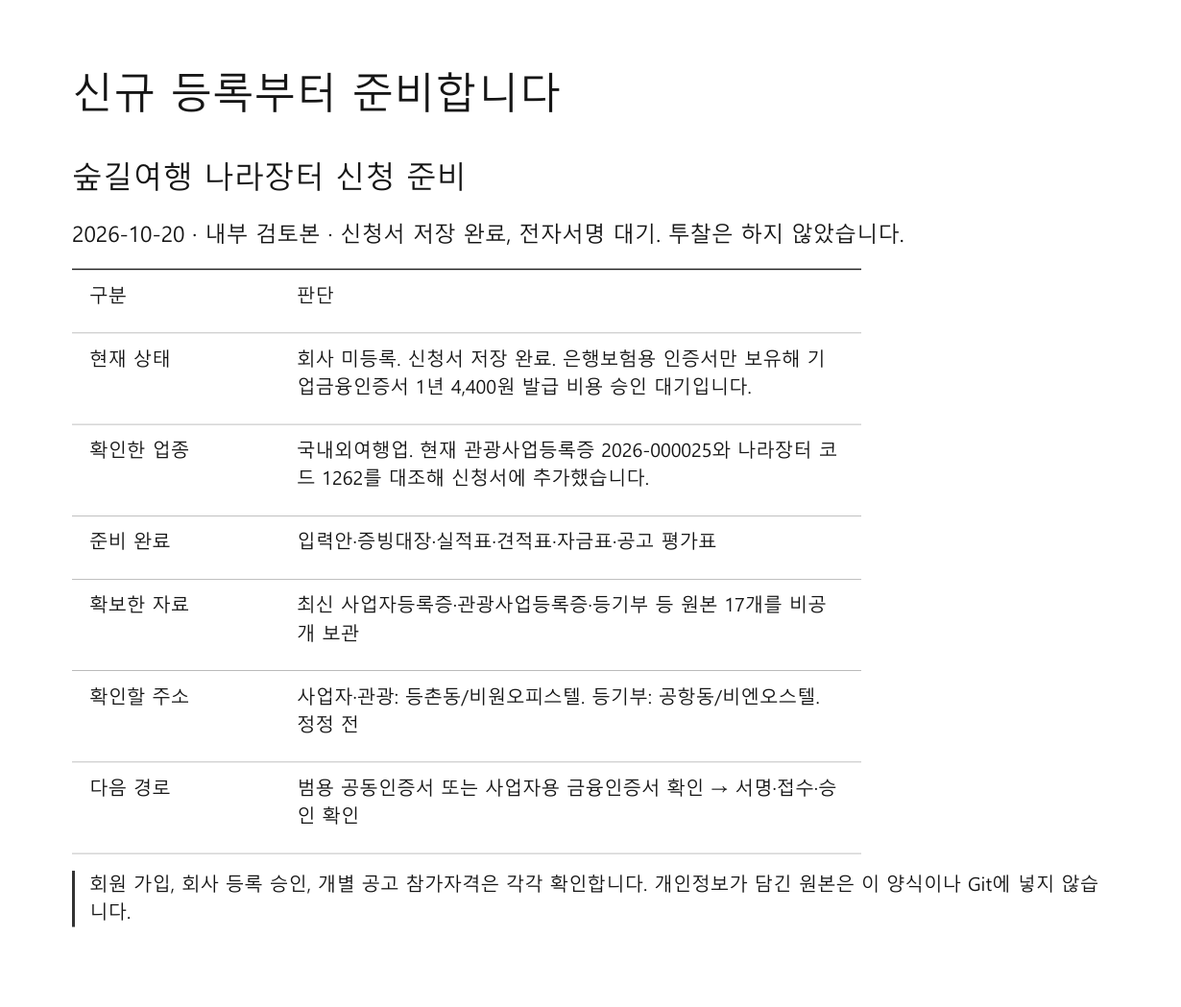
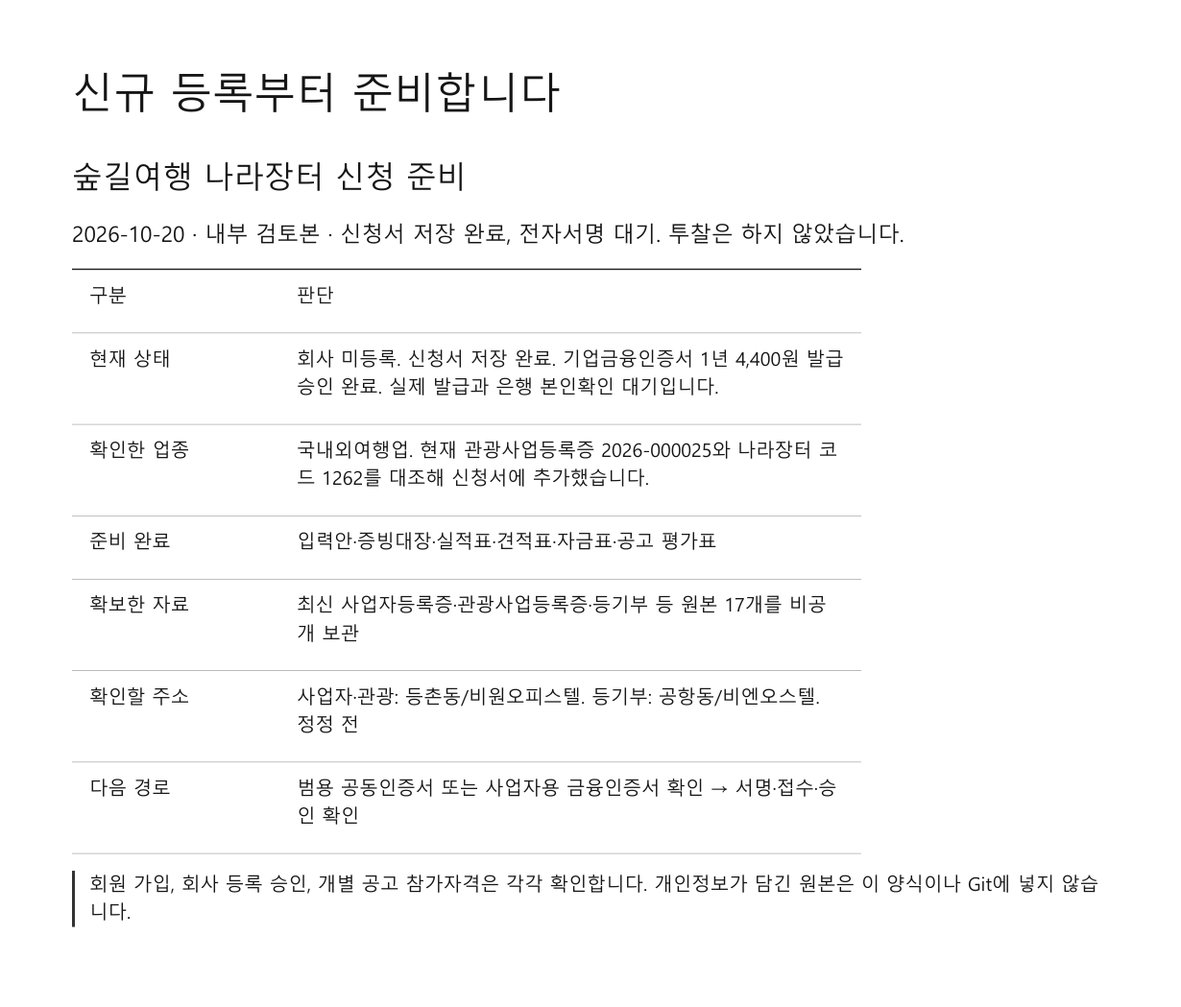
docs: record approved certificate fee and bank interaction checkpoint

Changed region(s): [[0.2472, 0.3356, 0.7106, 0.3966]]

diff --git a/procurement/output/나라장터-신청준비.html b/procurement/output/나라장터-신청준비.html
@@ -1,1 +1,1 @@
-<!doctype html><html lang="ko"><meta charset="utf-8"><title>나라장터 신청 준비</title><style>@page{size:A4;margin:15mm}*{box-sizing:border-box}body{font-family:"Malgun Gothic",sans-serif;color:#151515;margin:0;font-size:11pt;line-height:1.6}.page{break-after:page;min-height:255mm;position:relative;padding-bottom:12mm}.page:last-child{break-after:auto}h1{font-size:25pt;letter-spacing:-1px;margin:10mm 0 8mm}h2{font-size:17pt}p{margin:5mm 0}.eyebrow{font-size:9pt;letter-spacing:1px;border-top:3px solid #222;padding-top:4mm}.lead{font-size:17pt;font-weight:bold}table{border-collapse:collapse;width:100%;font-size:9.5pt}th,td{border-bottom:1px solid #bbb;padding:3mm 2.5mm;text-align:left;vertical-align:top}th{border-top:1.5px solid #222;font-weight:bold}td:first-child{width:25%;font-weight:bold}.note{border-left:3px solid #333;padding-left:4mm;font-size:10pt}footer{position:absolute;bottom:0;font-size:8pt;color:#555;width:100%;border-top:1px solid #bbb;padding-top:3mm}.summary{width:820px;min-height:0;padding:40px;background:white}.summary h1{margin:12px 0 24px}.summary footer{position:static;margin-top:30px}@media screen{body{background:#e9ede9}.page{background:white;max-width:210mm;margin:20px auto;padding:15mm;min-height:297mm}.summary{margin:0}}</style><body><section class="page"><div class="eyebrow">FOREST TOUR · 신청 준비 · 2026-10-20</div><h1>신규 등록부터 준비합니다</h1><p class="lead">숲길여행 나라장터 신청 준비</p><p>2026-10-20 · 내부 검토본 · 신청서 저장 완료, 전자서명 대기. 투찰은 하지 않았습니다.</p><table style="width:500pt"><thead><tr><th style="width:120pt">구분</th><th style="width:380.0pt">판단</th></tr></thead><tbody><tr><td style="width:120pt">현재 상태</td><td style="width:380.0pt">회사 미등록. 신청서 저장 완료. 은행보험용 인증서만 보유해 기업금융인증서 1년 4,400원 발급 비용 승인 대기입니다.</td></tr><tr><td style="width:120pt">확인한 업종</td><td style="width:380.0pt">국내외여행업. 현재 관광사업등록증 2026-000025와 나라장터 코드 1262를 대조해 신청서에 추가했습니다.</td></tr><tr><td style="width:120pt">준비 완료</td><td style="width:380.0pt">입력안·증빙대장·실적표·견적표·자금표·공고 평가표</td></tr><tr><td style="width:120pt">확보한 자료</td><td style="width:380.0pt">최신 사업자등록증·관광사업등록증·등기부 등 원본 17개를 비공개 보관</td></tr><tr><td style="width:120pt">확인할 주소</td><td style="width:380.0pt">사업자·관광: 등촌동/비원오피스텔. 등기부: 공항동/비엔오스텔. 정정 전</td></tr><tr><td style="width:120pt">다음 경로</td><td style="width:380.0pt">범용 공동인증서 또는 사업자용 금융인증서 확인 → 서명·접수·승인 확인</td></tr></tbody></table><p class="note">회원 가입, 회사 등록 승인, 개별 공고 참가자격은 각각 확인합니다. 개인정보가 담긴 원본은 이 양식이나 Git에 넣지 않습니다.</p><footer>내부 검토본 · 신청서 저장 완료·전자서명 대기 · 1/6</footer></section><section class="page"><div class="eyebrow">FOREST TOUR · 신청 준비 · 2026-10-20</div><h1>회사 정보 입력안</h1><table style="width:500pt"><thead><tr><th style="width:120pt">항목</th><th style="width:380.0pt">준비값</th></tr></thead><tbody><tr><td style="width:120pt">법인명</td><td style="width:380.0pt">주식회사 숲길여행</td></tr><tr><td style="width:120pt">사업자등록번호</td><td style="width:380.0pt">584-81-01471</td></tr><tr><td style="width:120pt">법인등록번호</td><td style="width:380.0pt">110111-7220611</td></tr><tr><td style="width:120pt">개업일</td><td style="width:380.0pt">2020-01-01</td></tr><tr><td style="width:120pt">본점 주소</td><td style="width:380.0pt">서울특별시 강서구 공항대로 525, 1501 나-318호(등촌동, 비원오피스텔)</td></tr><tr><td style="width:120pt">우편번호</td><td style="width:380.0pt">미확인</td></tr><tr><td style="width:120pt">대표자</td><td style="width:380.0pt">미확인</td></tr><tr><td style="width:120pt">등록 구분</td><td style="width:380.0pt">본사 신규 / 국내소재 법인 / 용역</td></tr><tr><td style="width:120pt">업종</td><td style="width:380.0pt">국내외여행업 1262</td></tr><tr><td style="width:120pt">관광사업 등록번호</td><td style="width:380.0pt">2026-000025</td></tr></tbody></table><p>모든 값은 최신 원본과 대조합니다. 대표자·사업 연락처·인증서·대리인은 원본과 실제 권한으로 입력합니다. 우편번호는 현재 주소검색으로 확정합니다. 전체 항목은 Excel 등록입력 시트를 사용합니다.</p><footer>내부 검토본 · 신청서 저장 완료·전자서명 대기 · 2/6</footer></section><section class="page"><div class="eyebrow">FOREST TOUR · 신청 준비 · 2026-10-20</div><h1>등록과 증빙을 연결합니다</h1><p>개인회원과 업체의 인증은 구분합니다. 사내이사 기록만으로 대표자 권한을 대신하지 않습니다.</p><table style="width:500pt"><thead><tr><th style="width:120pt">서류</th><th style="width:190.0pt">현재</th><th style="width:190.0pt">용도</th></tr></thead><tbody><tr><td style="width:120pt">사업자등록증</td><td style="width:190.0pt">사본 있음</td><td style="width:190.0pt">기본 등록</td></tr><tr><td style="width:120pt">최신 법인등기</td><td style="width:190.0pt">사본 있음</td><td style="width:190.0pt">기본·대표자·지역</td></tr><tr><td style="width:120pt">관광사업등록증</td><td style="width:190.0pt">사본 있음</td><td style="width:190.0pt">업종 1262</td></tr><tr><td style="width:120pt">인감·사용인감</td><td style="width:190.0pt">미확인</td><td style="width:190.0pt">신청별 요구</td></tr><tr><td style="width:120pt">대리인 인정 자료</td><td style="width:190.0pt">요구 확인 중</td><td style="width:190.0pt">신청 역할별 요구</td></tr><tr><td style="width:120pt">소기업·소상공인확인</td><td style="width:190.0pt">미확인</td><td style="width:190.0pt">해당 공고</td></tr><tr><td style="width:120pt">공공입찰용 신용평가</td><td style="width:190.0pt">미확인</td><td style="width:190.0pt">해당 공고</td></tr><tr><td style="width:120pt">발주처 실적증명</td><td style="width:190.0pt">미확인</td><td style="width:190.0pt">해당 공고</td></tr><tr><td style="width:120pt">여행업 보험·공제</td><td style="width:190.0pt">미확인</td><td style="width:190.0pt">해당 공고·업종</td></tr><tr><td style="width:120pt">입찰·계약 보증</td><td style="width:190.0pt">미확인</td><td style="width:190.0pt">해당 공고</td></tr></tbody></table><p class="note">사업자용 금융인증서도 법인 후보입니다. 기존 인증서 사용 가능 여부를 먼저 확인합니다. 새 인증서·보증 발급·과금은 이번에 실행하지 않았습니다.</p><footer>내부 검토본 · 신청서 저장 완료·전자서명 대기 · 3/6</footer></section><section class="page"><div class="eyebrow">FOREST TOUR · 신청 준비 · 2026-10-20</div><h1>서울고 공고 검토</h1><table style="width:500pt"><thead><tr><th style="width:120pt">항목</th><th style="width:380.0pt">확인 내용</th></tr></thead><tbody><tr><td style="width:120pt">공고</td><td style="width:380.0pt">R26BK01770779-000 / 일본 방문 체험학습</td></tr><tr><td style="width:120pt">금액·인원</td><td style="width:380.0pt">공고 기초금액 46,860,650원 / 학생 26명·교직원 2명</td></tr><tr><td style="width:120pt">마감</td><td style="width:380.0pt">등록 10-27 18:00 / 입찰·방문 제안서 10-28 16:00</td></tr><tr><td style="width:120pt">제안</td><td style="width:380.0pt">A4 세로·상철 10부 / 11-05 15:10 설명회 예정</td></tr><tr><td style="width:120pt">기본 조건</td><td style="width:380.0pt">서울 본점·국내외여행업 또는 종합여행업·소기업 또는 소상공인</td></tr><tr><td style="width:120pt">점수 제약</td><td style="width:380.0pt">정량 최저 구간 예시 6 + 정성 최고 70 = 76. 기준 80에 미달</td></tr><tr><td style="width:120pt">주의</td><td style="width:380.0pt">위 점수는 조건부 시나리오이며 회사 실제 점수 확정 아님</td></tr><tr><td style="width:120pt">기준일</td><td style="width:380.0pt">신용평가는 공고일 전 유효 평가 요구. 지금 발급으로 점수 회복 단정 금지</td></tr></tbody></table><p>학교 실적과 보험·등기 등 인정 인력 증빙, 항공 28석 승계·발권, 현지 수배가 필요합니다. 성인 카페 여행 실적을 학교 실적으로 바꾸지 않습니다.</p><footer>내부 검토본 · 신청서 저장 완료·전자서명 대기 · 4/6</footer></section><section class="page"><div class="eyebrow">FOREST TOUR · 신청 준비 · 2026-10-20</div><h1>원문 충돌과 돈의 흐름</h1><table style="width:500pt"><thead><tr><th style="width:120pt">항목</th><th style="width:380.0pt">확인 내용</th></tr></thead><tbody><tr><td style="width:120pt">개찰 시각</td><td style="width:380.0pt">공식 상세 11-06 17:00 / 공고 PDF 11-06 10:00</td></tr><tr><td style="width:120pt">실적 기간</td><td style="width:380.0pt">공고 최근 5년 / 과업 평가표 2020~2024년</td></tr><tr><td style="width:120pt">입찰 보증</td><td style="width:380.0pt">본문 5% 보증서 / 서식에 한시 2.5%·각서 문구 병존</td></tr><tr><td style="width:120pt">대금</td><td style="width:380.0pt">과업은 종료 후 청구. 선금과 지급기한 별도 확인 필요</td></tr><tr><td style="width:120pt">계약 보증</td><td style="width:380.0pt">10% 이상. 실제 보험료·담보금과 보증금액 구분</td></tr><tr><td style="width:120pt">원가 위험</td><td style="width:380.0pt">환율·유류 인상 변경 불가, 인원·할인 정산, 취소·해지 조건</td></tr></tbody></table><p>엑셀의 견적·자금 시트에 공급사 견적과 결제일을 넣습니다. 미입력은 0원이 아닙니다. 전체 차액과 회사 귀속 이익을 구분합니다.</p><p class="note">위 충돌은 발주기관 답변 전 임의로 유리하게 해석하지 않습니다. 문의 초안은 작성했으나 발송하지 않았습니다.</p><footer>내부 검토본 · 신청서 저장 완료·전자서명 대기 · 5/6</footer></section><section class="page"><div class="eyebrow">FOREST TOUR · 신청 준비 · 2026-10-20</div><h1>작성안을 제출본으로 바꾸는 기준</h1><p>회사 소개와 과업 대응표는 준비됐습니다. 미확정 인력·숙소·차량·가격을 확정 사실로 채우지 않습니다.</p><table style="width:500pt"><thead><tr><th style="width:120pt">자료</th><th style="width:380.0pt">위치</th></tr></thead><tbody><tr><td style="width:120pt">작업 인덱스</td><td style="width:380.0pt">procurement/README.md</td></tr><tr><td style="width:120pt">등록 입력·인증</td><td style="width:380.0pt">01-registration-draft.md</td></tr><tr><td style="width:120pt">공고와 점수·계약</td><td style="width:380.0pt">02-bid-review.md</td></tr><tr><td style="width:120pt">소개·제안·문의 초안</td><td style="width:380.0pt">03-proposal-draft.md</td></tr><tr><td style="width:120pt">사람의 실행 원장</td><td style="width:380.0pt">foresttour/docs/사장님-가이드.md 나라장터 절</td></tr><tr><td style="width:120pt">공식 절차</td><td style="width:380.0pt">pps.go.kr/kor/content.do?key=00170</td></tr><tr><td style="width:120pt">확인서 발급</td><td style="width:380.0pt">sminfo.mss.go.kr</td></tr><tr><td style="width:120pt">나라장터</td><td style="width:380.0pt">g2b.go.kr</td></tr></tbody></table><p>신청서 저장과 재조회 검증을 마쳤으며 회사 공동인증서 전자서명을 기다립니다. 실제 송신 완료·접수·승인·입찰 완료 증거는 없습니다.</p><footer>내부 검토본 · 신청서 저장 완료·전자서명 대기 · 6/6</footer></section></body></html>
+<!doctype html><html lang="ko"><meta charset="utf-8"><title>나라장터 신청 준비</title><style>@page{size:A4;margin:15mm}*{box-sizing:border-box}body{font-family:"Malgun Gothic",sans-serif;color:#151515;margin:0;font-size:11pt;line-height:1.6}.page{break-after:page;min-height:255mm;position:relative;padding-bottom:12mm}.page:last-child{break-after:auto}h1{font-size:25pt;letter-spacing:-1px;margin:10mm 0 8mm}h2{font-size:17pt}p{margin:5mm 0}.eyebrow{font-size:9pt;letter-spacing:1px;border-top:3px solid #222;padding-top:4mm}.lead{font-size:17pt;font-weight:bold}table{border-collapse:collapse;width:100%;font-size:9.5pt}th,td{border-bottom:1px solid #bbb;padding:3mm 2.5mm;text-align:left;vertical-align:top}th{border-top:1.5px solid #222;font-weight:bold}td:first-child{width:25%;font-weight:bold}.note{border-left:3px solid #333;padding-left:4mm;font-size:10pt}footer{position:absolute;bottom:0;font-size:8pt;color:#555;width:100%;border-top:1px solid #bbb;padding-top:3mm}.summary{width:820px;min-height:0;padding:40px;background:white}.summary h1{margin:12px 0 24px}.summary footer{position:static;margin-top:30px}@media screen{body{background:#e9ede9}.page{background:white;max-width:210mm;margin:20px auto;padding:15mm;min-height:297mm}.summary{margin:0}}</style><body><section class="page"><div class="eyebrow">FOREST TOUR · 신청 준비 · 2026-10-20</div><h1>신규 등록부터 준비합니다</h1><p class="lead">숲길여행 나라장터 신청 준비</p><p>2026-10-20 · 내부 검토본 · 신청서 저장 완료, 전자서명 대기. 투찰은 하지 않았습니다.</p><table style="width:500pt"><thead><tr><th style="width:120pt">구분</th><th style="width:380.0pt">판단</th></tr></thead><tbody><tr><td style="width:120pt">현재 상태</td><td style="width:380.0pt">회사 미등록. 신청서 저장 완료. 기업금융인증서 1년 4,400원 발급 승인 완료. 실제 발급과 은행 본인확인 대기입니다.</td></tr><tr><td style="width:120pt">확인한 업종</td><td style="width:380.0pt">국내외여행업. 현재 관광사업등록증 2026-000025와 나라장터 코드 1262를 대조해 신청서에 추가했습니다.</td></tr><tr><td style="width:120pt">준비 완료</td><td style="width:380.0pt">입력안·증빙대장·실적표·견적표·자금표·공고 평가표</td></tr><tr><td style="width:120pt">확보한 자료</td><td style="width:380.0pt">최신 사업자등록증·관광사업등록증·등기부 등 원본 17개를 비공개 보관</td></tr><tr><td style="width:120pt">확인할 주소</td><td style="width:380.0pt">사업자·관광: 등촌동/비원오피스텔. 등기부: 공항동/비엔오스텔. 정정 전</td></tr><tr><td style="width:120pt">다음 경로</td><td style="width:380.0pt">범용 공동인증서 또는 사업자용 금융인증서 확인 → 서명·접수·승인 확인</td></tr></tbody></table><p class="note">회원 가입, 회사 등록 승인, 개별 공고 참가자격은 각각 확인합니다. 개인정보가 담긴 원본은 이 양식이나 Git에 넣지 않습니다.</p><footer>내부 검토본 · 신청서 저장 완료·전자서명 대기 · 1/6</footer></section><section class="page"><div class="eyebrow">FOREST TOUR · 신청 준비 · 2026-10-20</div><h1>회사 정보 입력안</h1><table style="width:500pt"><thead><tr><th style="width:120pt">항목</th><th style="width:380.0pt">준비값</th></tr></thead><tbody><tr><td style="width:120pt">법인명</td><td style="width:380.0pt">주식회사 숲길여행</td></tr><tr><td style="width:120pt">사업자등록번호</td><td style="width:380.0pt">584-81-01471</td></tr><tr><td style="width:120pt">법인등록번호</td><td style="width:380.0pt">110111-7220611</td></tr><tr><td style="width:120pt">개업일</td><td style="width:380.0pt">2020-01-01</td></tr><tr><td style="width:120pt">본점 주소</td><td style="width:380.0pt">서울특별시 강서구 공항대로 525, 1501 나-318호(등촌동, 비원오피스텔)</td></tr><tr><td style="width:120pt">우편번호</td><td style="width:380.0pt">미확인</td></tr><tr><td style="width:120pt">대표자</td><td style="width:380.0pt">미확인</td></tr><tr><td style="width:120pt">등록 구분</td><td style="width:380.0pt">본사 신규 / 국내소재 법인 / 용역</td></tr><tr><td style="width:120pt">업종</td><td style="width:380.0pt">국내외여행업 1262</td></tr><tr><td style="width:120pt">관광사업 등록번호</td><td style="width:380.0pt">2026-000025</td></tr></tbody></table><p>모든 값은 최신 원본과 대조합니다. 대표자·사업 연락처·인증서·대리인은 원본과 실제 권한으로 입력합니다. 우편번호는 현재 주소검색으로 확정합니다. 전체 항목은 Excel 등록입력 시트를 사용합니다.</p><footer>내부 검토본 · 신청서 저장 완료·전자서명 대기 · 2/6</footer></section><section class="page"><div class="eyebrow">FOREST TOUR · 신청 준비 · 2026-10-20</div><h1>등록과 증빙을 연결합니다</h1><p>개인회원과 업체의 인증은 구분합니다. 사내이사 기록만으로 대표자 권한을 대신하지 않습니다.</p><table style="width:500pt"><thead><tr><th style="width:120pt">서류</th><th style="width:190.0pt">현재</th><th style="width:190.0pt">용도</th></tr></thead><tbody><tr><td style="width:120pt">사업자등록증</td><td style="width:190.0pt">사본 있음</td><td style="width:190.0pt">기본 등록</td></tr><tr><td style="width:120pt">최신 법인등기</td><td style="width:190.0pt">사본 있음</td><td style="width:190.0pt">기본·대표자·지역</td></tr><tr><td style="width:120pt">관광사업등록증</td><td style="width:190.0pt">사본 있음</td><td style="width:190.0pt">업종 1262</td></tr><tr><td style="width:120pt">인감·사용인감</td><td style="width:190.0pt">미확인</td><td style="width:190.0pt">신청별 요구</td></tr><tr><td style="width:120pt">대리인 인정 자료</td><td style="width:190.0pt">요구 확인 중</td><td style="width:190.0pt">신청 역할별 요구</td></tr><tr><td style="width:120pt">소기업·소상공인확인</td><td style="width:190.0pt">미확인</td><td style="width:190.0pt">해당 공고</td></tr><tr><td style="width:120pt">공공입찰용 신용평가</td><td style="width:190.0pt">미확인</td><td style="width:190.0pt">해당 공고</td></tr><tr><td style="width:120pt">발주처 실적증명</td><td style="width:190.0pt">미확인</td><td style="width:190.0pt">해당 공고</td></tr><tr><td style="width:120pt">여행업 보험·공제</td><td style="width:190.0pt">미확인</td><td style="width:190.0pt">해당 공고·업종</td></tr><tr><td style="width:120pt">입찰·계약 보증</td><td style="width:190.0pt">미확인</td><td style="width:190.0pt">해당 공고</td></tr></tbody></table><p class="note">사업자용 금융인증서도 법인 후보입니다. 기존 인증서 사용 가능 여부를 먼저 확인합니다. 새 인증서·보증 발급·과금은 이번에 실행하지 않았습니다.</p><footer>내부 검토본 · 신청서 저장 완료·전자서명 대기 · 3/6</footer></section><section class="page"><div class="eyebrow">FOREST TOUR · 신청 준비 · 2026-10-20</div><h1>서울고 공고 검토</h1><table style="width:500pt"><thead><tr><th style="width:120pt">항목</th><th style="width:380.0pt">확인 내용</th></tr></thead><tbody><tr><td style="width:120pt">공고</td><td style="width:380.0pt">R26BK01770779-000 / 일본 방문 체험학습</td></tr><tr><td style="width:120pt">금액·인원</td><td style="width:380.0pt">공고 기초금액 46,860,650원 / 학생 26명·교직원 2명</td></tr><tr><td style="width:120pt">마감</td><td style="width:380.0pt">등록 10-27 18:00 / 입찰·방문 제안서 10-28 16:00</td></tr><tr><td style="width:120pt">제안</td><td style="width:380.0pt">A4 세로·상철 10부 / 11-05 15:10 설명회 예정</td></tr><tr><td style="width:120pt">기본 조건</td><td style="width:380.0pt">서울 본점·국내외여행업 또는 종합여행업·소기업 또는 소상공인</td></tr><tr><td style="width:120pt">점수 제약</td><td style="width:380.0pt">정량 최저 구간 예시 6 + 정성 최고 70 = 76. 기준 80에 미달</td></tr><tr><td style="width:120pt">주의</td><td style="width:380.0pt">위 점수는 조건부 시나리오이며 회사 실제 점수 확정 아님</td></tr><tr><td style="width:120pt">기준일</td><td style="width:380.0pt">신용평가는 공고일 전 유효 평가 요구. 지금 발급으로 점수 회복 단정 금지</td></tr></tbody></table><p>학교 실적과 보험·등기 등 인정 인력 증빙, 항공 28석 승계·발권, 현지 수배가 필요합니다. 성인 카페 여행 실적을 학교 실적으로 바꾸지 않습니다.</p><footer>내부 검토본 · 신청서 저장 완료·전자서명 대기 · 4/6</footer></section><section class="page"><div class="eyebrow">FOREST TOUR · 신청 준비 · 2026-10-20</div><h1>원문 충돌과 돈의 흐름</h1><table style="width:500pt"><thead><tr><th style="width:120pt">항목</th><th style="width:380.0pt">확인 내용</th></tr></thead><tbody><tr><td style="width:120pt">개찰 시각</td><td style="width:380.0pt">공식 상세 11-06 17:00 / 공고 PDF 11-06 10:00</td></tr><tr><td style="width:120pt">실적 기간</td><td style="width:380.0pt">공고 최근 5년 / 과업 평가표 2020~2024년</td></tr><tr><td style="width:120pt">입찰 보증</td><td style="width:380.0pt">본문 5% 보증서 / 서식에 한시 2.5%·각서 문구 병존</td></tr><tr><td style="width:120pt">대금</td><td style="width:380.0pt">과업은 종료 후 청구. 선금과 지급기한 별도 확인 필요</td></tr><tr><td style="width:120pt">계약 보증</td><td style="width:380.0pt">10% 이상. 실제 보험료·담보금과 보증금액 구분</td></tr><tr><td style="width:120pt">원가 위험</td><td style="width:380.0pt">환율·유류 인상 변경 불가, 인원·할인 정산, 취소·해지 조건</td></tr></tbody></table><p>엑셀의 견적·자금 시트에 공급사 견적과 결제일을 넣습니다. 미입력은 0원이 아닙니다. 전체 차액과 회사 귀속 이익을 구분합니다.</p><p class="note">위 충돌은 발주기관 답변 전 임의로 유리하게 해석하지 않습니다. 문의 초안은 작성했으나 발송하지 않았습니다.</p><footer>내부 검토본 · 신청서 저장 완료·전자서명 대기 · 5/6</footer></section><section class="page"><div class="eyebrow">FOREST TOUR · 신청 준비 · 2026-10-20</div><h1>작성안을 제출본으로 바꾸는 기준</h1><p>회사 소개와 과업 대응표는 준비됐습니다. 미확정 인력·숙소·차량·가격을 확정 사실로 채우지 않습니다.</p><table style="width:500pt"><thead><tr><th style="width:120pt">자료</th><th style="width:380.0pt">위치</th></tr></thead><tbody><tr><td style="width:120pt">작업 인덱스</td><td style="width:380.0pt">procurement/README.md</td></tr><tr><td style="width:120pt">등록 입력·인증</td><td style="width:380.0pt">01-registration-draft.md</td></tr><tr><td style="width:120pt">공고와 점수·계약</td><td style="width:380.0pt">02-bid-review.md</td></tr><tr><td style="width:120pt">소개·제안·문의 초안</td><td style="width:380.0pt">03-proposal-draft.md</td></tr><tr><td style="width:120pt">사람의 실행 원장</td><td style="width:380.0pt">foresttour/docs/사장님-가이드.md 나라장터 절</td></tr><tr><td style="width:120pt">공식 절차</td><td style="width:380.0pt">pps.go.kr/kor/content.do?key=00170</td></tr><tr><td style="width:120pt">확인서 발급</td><td style="width:380.0pt">sminfo.mss.go.kr</td></tr><tr><td style="width:120pt">나라장터</td><td style="width:380.0pt">g2b.go.kr</td></tr></tbody></table><p>신청서 저장과 재조회 검증을 마쳤으며 회사 공동인증서 전자서명을 기다립니다. 실제 송신 완료·접수·승인·입찰 완료 증거는 없습니다.</p><footer>내부 검토본 · 신청서 저장 완료·전자서명 대기 · 6/6</footer></section></body></html>

diff --git a/procurement/output/나라장터-준비요약.html b/procurement/output/나라장터-준비요약.html
@@ -1,1 +1,1 @@
-<!doctype html><html lang="ko"><meta charset="utf-8"><title>나라장터 신청 준비</title><style>@page{size:A4;margin:15mm}*{box-sizing:border-box}body{font-family:"Malgun Gothic",sans-serif;color:#151515;margin:0;font-size:11pt;line-height:1.6}.page{break-after:page;min-height:255mm;position:relative;padding-bottom:12mm}.page:last-child{break-after:auto}h1{font-size:25pt;letter-spacing:-1px;margin:10mm 0 8mm}h2{font-size:17pt}p{margin:5mm 0}.eyebrow{font-size:9pt;letter-spacing:1px;border-top:3px solid #222;padding-top:4mm}.lead{font-size:17pt;font-weight:bold}table{border-collapse:collapse;width:100%;font-size:9.5pt}th,td{border-bottom:1px solid #bbb;padding:3mm 2.5mm;text-align:left;vertical-align:top}th{border-top:1.5px solid #222;font-weight:bold}td:first-child{width:25%;font-weight:bold}.note{border-left:3px solid #333;padding-left:4mm;font-size:10pt}footer{position:absolute;bottom:0;font-size:8pt;color:#555;width:100%;border-top:1px solid #bbb;padding-top:3mm}.summary{width:820px;min-height:0;padding:40px;background:white}.summary h1{margin:12px 0 24px}.summary footer{position:static;margin-top:30px}@media screen{body{background:#e9ede9}.page{background:white;max-width:210mm;margin:20px auto;padding:15mm;min-height:297mm}.summary{margin:0}}</style><body><section class="summary"><div class="eyebrow">FOREST TOUR · 2026-10-20</div><h1>신규 등록부터 준비합니다</h1><p class="lead">숲길여행 나라장터 신청 준비</p><p>2026-10-20 · 내부 검토본 · 신청서 저장 완료, 전자서명 대기. 투찰은 하지 않았습니다.</p><table style="width:500pt"><thead><tr><th style="width:120pt">구분</th><th style="width:380.0pt">판단</th></tr></thead><tbody><tr><td style="width:120pt">현재 상태</td><td style="width:380.0pt">회사 미등록. 신청서 저장 완료. 은행보험용 인증서만 보유해 기업금융인증서 1년 4,400원 발급 비용 승인 대기입니다.</td></tr><tr><td style="width:120pt">확인한 업종</td><td style="width:380.0pt">국내외여행업. 현재 관광사업등록증 2026-000025와 나라장터 코드 1262를 대조해 신청서에 추가했습니다.</td></tr><tr><td style="width:120pt">준비 완료</td><td style="width:380.0pt">입력안·증빙대장·실적표·견적표·자금표·공고 평가표</td></tr><tr><td style="width:120pt">확보한 자료</td><td style="width:380.0pt">최신 사업자등록증·관광사업등록증·등기부 등 원본 17개를 비공개 보관</td></tr><tr><td style="width:120pt">확인할 주소</td><td style="width:380.0pt">사업자·관광: 등촌동/비원오피스텔. 등기부: 공항동/비엔오스텔. 정정 전</td></tr><tr><td style="width:120pt">다음 경로</td><td style="width:380.0pt">범용 공동인증서 또는 사업자용 금융인증서 확인 → 서명·접수·승인 확인</td></tr></tbody></table><p class="note">회원 가입, 회사 등록 승인, 개별 공고 참가자격은 각각 확인합니다. 개인정보가 담긴 원본은 이 양식이나 Git에 넣지 않습니다.</p><footer>상세 입력안·서류 목록·공고 분석은 신청준비 PDF와 Excel에 담았습니다.</footer></section></body></html>
+<!doctype html><html lang="ko"><meta charset="utf-8"><title>나라장터 신청 준비</title><style>@page{size:A4;margin:15mm}*{box-sizing:border-box}body{font-family:"Malgun Gothic",sans-serif;color:#151515;margin:0;font-size:11pt;line-height:1.6}.page{break-after:page;min-height:255mm;position:relative;padding-bottom:12mm}.page:last-child{break-after:auto}h1{font-size:25pt;letter-spacing:-1px;margin:10mm 0 8mm}h2{font-size:17pt}p{margin:5mm 0}.eyebrow{font-size:9pt;letter-spacing:1px;border-top:3px solid #222;padding-top:4mm}.lead{font-size:17pt;font-weight:bold}table{border-collapse:collapse;width:100%;font-size:9.5pt}th,td{border-bottom:1px solid #bbb;padding:3mm 2.5mm;text-align:left;vertical-align:top}th{border-top:1.5px solid #222;font-weight:bold}td:first-child{width:25%;font-weight:bold}.note{border-left:3px solid #333;padding-left:4mm;font-size:10pt}footer{position:absolute;bottom:0;font-size:8pt;color:#555;width:100%;border-top:1px solid #bbb;padding-top:3mm}.summary{width:820px;min-height:0;padding:40px;background:white}.summary h1{margin:12px 0 24px}.summary footer{position:static;margin-top:30px}@media screen{body{background:#e9ede9}.page{background:white;max-width:210mm;margin:20px auto;padding:15mm;min-height:297mm}.summary{margin:0}}</style><body><section class="summary"><div class="eyebrow">FOREST TOUR · 2026-10-20</div><h1>신규 등록부터 준비합니다</h1><p class="lead">숲길여행 나라장터 신청 준비</p><p>2026-10-20 · 내부 검토본 · 신청서 저장 완료, 전자서명 대기. 투찰은 하지 않았습니다.</p><table style="width:500pt"><thead><tr><th style="width:120pt">구분</th><th style="width:380.0pt">판단</th></tr></thead><tbody><tr><td style="width:120pt">현재 상태</td><td style="width:380.0pt">회사 미등록. 신청서 저장 완료. 기업금융인증서 1년 4,400원 발급 승인 완료. 실제 발급과 은행 본인확인 대기입니다.</td></tr><tr><td style="width:120pt">확인한 업종</td><td style="width:380.0pt">국내외여행업. 현재 관광사업등록증 2026-000025와 나라장터 코드 1262를 대조해 신청서에 추가했습니다.</td></tr><tr><td style="width:120pt">준비 완료</td><td style="width:380.0pt">입력안·증빙대장·실적표·견적표·자금표·공고 평가표</td></tr><tr><td style="width:120pt">확보한 자료</td><td style="width:380.0pt">최신 사업자등록증·관광사업등록증·등기부 등 원본 17개를 비공개 보관</td></tr><tr><td style="width:120pt">확인할 주소</td><td style="width:380.0pt">사업자·관광: 등촌동/비원오피스텔. 등기부: 공항동/비엔오스텔. 정정 전</td></tr><tr><td style="width:120pt">다음 경로</td><td style="width:380.0pt">범용 공동인증서 또는 사업자용 금융인증서 확인 → 서명·접수·승인 확인</td></tr></tbody></table><p class="note">회원 가입, 회사 등록 승인, 개별 공고 참가자격은 각각 확인합니다. 개인정보가 담긴 원본은 이 양식이나 Git에 넣지 않습니다.</p><footer>상세 입력안·서류 목록·공고 분석은 신청준비 PDF와 Excel에 담았습니다.</footer></section></body></html>

diff --git a/procurement/build-preparation.py b/procurement/build-preparation.py
@@ -47,7 +47,7 @@ def sheet(name, headers, rows, widths):
 
 sheet('읽기안내', ['구분', '내용'], [
     ['기준', '2026-10-20 / NARA-20261020 / 내부 신청 준비용'],
-    ['사용자 확인', '회사 미등록. 등기임원 계정으로 로그인 완료. 은행보험용 인증서만 보유해 기업금융인증서 1년 4,400원 신규 발급 비용 승인 대기'],
+    ['사용자 확인', '회사 미등록. 등기임원 계정으로 로그인 완료. 기업금융인증서 1년 4,400원 발급 승인 완료. 실제 발급·본인확인 대기'],
     ['확정 범위', '입력안·증빙 목록·실적·원가·자금·평가 양식 준비. 실제 신청서 저장·재조회 완료, 전자서명 대기. 투찰 미실행'],
     ['빈칸', '미확인 또는 미입력입니다. 비용 0원이나 요건 충족을 뜻하지 않습니다.'],
     ['수식', '초록 셀은 수식입니다. Excel에서 열면 재계산합니다. 모든 필수 입력 전에는 합계를 확정하지 않습니다.'],
@@ -148,7 +148,7 @@ def table(headers, rows):
 
 pages=[
     ('신규 등록부터 준비합니다', '<p class="lead">숲길여행 나라장터 신청 준비</p><p>2026-10-20 · 내부 검토본 · 신청서 저장 완료, 전자서명 대기. 투찰은 하지 않았습니다.</p>'+table(['구분','판단'],[
-        ['현재 상태','회사 미등록. 신청서 저장 완료. 은행보험용 인증서만 보유해 기업금융인증서 1년 4,400원 발급 비용 승인 대기입니다.'],
+        ['현재 상태','회사 미등록. 신청서 저장 완료. 기업금융인증서 1년 4,400원 발급 승인 완료. 실제 발급과 은행 본인확인 대기입니다.'],
         ['확인한 업종','국내외여행업. 현재 관광사업등록증 2026-000025와 나라장터 코드 1262를 대조해 신청서에 추가했습니다.'],
         ['준비 완료','입력안·증빙대장·실적표·견적표·자금표·공고 평가표'],
         ['확보한 자료','최신 사업자등록증·관광사업등록증·등기부 등 원본 17개를 비공개 보관'],

diff --git a/procurement/04-certificate-diagnosis.md b/procurement/04-certificate-diagnosis.md
@@ -25,9 +25,9 @@
 
 드림시큐리티 공식 문서가 안내하는 브라우저 가져오기는 정상 인증서를 해당 브라우저에 등록하는 방법입니다. 가져오기로 은행용 인증서의 용도가 범용으로 바뀌지는 않습니다. 적합한 인증서가 확인된 뒤 해당 방법을 사용합니다. 숨김 폴더를 찾을 때는 탐색기 주소창에 `%USERPROFILE%\AppData\LocalLow\NPKI`를 입력합니다. 공식 가져오기 화면에서는 `signCert.der`와 `signPri.key`를 함께 선택하도록 안내합니다. 비밀번호 입력·실제 전자서명은 사용자가 직접 처리합니다.
 
-사용자는 현재 PC의 인증서만 보유한다고 확인했습니다. 따라서 별도 범용 인증서의 위치를 다시 묻지 않습니다. 기존 Aside의 KB국민은행 기업금융인증서 발급 탭을 확인했으며 발급대상 선택·약관동의 화면에 1년 4,400원, 2년 8,800원, 3년 13,200원(각 부가세 포함)이 표시됩니다. 현재 선택은 1년이지만 이를 사용자 비용 승인으로 해석하지 않았습니다. 1년 상품을 기준으로 신규 발급 비용 승인을 질문했고 발급 동의·결제는 하지 않았습니다. 계좌 비밀번호·OTP·문자인증·인증서 비밀번호는 사용자가 직접 처리합니다.
+사용자는 현재 PC의 인증서만 보유한다고 확인했습니다. 따라서 별도 범용 인증서의 위치를 다시 묻지 않습니다. 이어서 KB국민은행 기업금융인증서 1년·부가세 포함 4,400원 발급에 명시적으로 동의했습니다. 이 기간과 비용을 다시 승인받지 않습니다. 기존 발급 탭에서 1년 선택을 확인하고 약관 보기와 예 버튼을 눌렀으나, 약관은 발급 초기 화면으로 열렸고 예 클릭 후에도 다음 단계 이동은 확인되지 않았습니다. 실제 동의·결제·발급 완료로 기록하지 않으며 사용자 직접 진행과 은행 본인확인을 요청했습니다. 원래 은행·나라장터 탭을 보존하고 점검용 중복 창만 닫았습니다. 계좌 비밀번호·OTP·문자인증·인증서 비밀번호는 사용자가 직접 처리합니다.
 
-정확한 재개 위치는 [KB국민은행 기업금융인증서 발급/재발급](https://obiz.kbstar.com/quics?page=C106059)입니다. 승인 후 해당 기간의 상품을 선택해 발급 절차를 진행하고, 적합 인증수단이 확보되면 나라장터의 저장된 신청서를 다시 불러와 송신 검증 → 금융(사업자)인증서 서명 → 접수내역·온라인 제출서류 확인 순서로 재개합니다. 사업자용 금융인증서는 전자세금계산서 업무에 사용할 수 없으며 새 발급의 비용 결정은 사용자에게 남깁니다.
+정확한 재개 위치는 [KB국민은행 기업금융인증서 발급/재발급](https://obiz.kbstar.com/quics?page=C106059)의 상품 선택·약관동의 화면입니다. 사용자 직접 진행 결과를 확인한 뒤 승인된 1년·4,400원 범위로 발급 절차를 이어갑니다. 적합 인증수단이 확보되면 나라장터의 저장된 신청서를 다시 불러와 송신 검증 → 금융(사업자)인증서 서명 → 접수내역·온라인 제출서류 확인 순서로 재개합니다. 사업자용 금융인증서는 전자세금계산서 업무에 사용할 수 없습니다. 사용자에게 발급 결과를 확인하기 전 반복 발급이나 중복 결제를 하지 않습니다.
 
 ## 공식 근거와 저장 경계
 

diff --git a/procurement/README.md b/procurement/README.md
@@ -1,6 +1,6 @@
 # 숲길여행 나라장터 신청 준비
 
-현재 명세: `NARA-20261020`, 버전 3. 최신 사용자 확인에 따라 **등기임원 개인회원 계정으로 나라장터 회사 신규 등록부터 완료**합니다. 실제 보유분은 현재 PC의 은행보험용 공동인증서뿐이며 나라장터에서 허용되지 않습니다. KB국민은행 기업금융인증서 1년 4,400원 신규 발급의 비용 승인을 기다립니다. 특정 공고 응찰은 현재 실행 범위에서 제외합니다. **실제 회사 등록은 아직 완료되지 않았습니다.**
+현재 명세: `NARA-20261020`, 버전 3. 최신 사용자 확인에 따라 **등기임원 개인회원 계정으로 나라장터 회사 신규 등록부터 완료**합니다. 실제 보유분은 현재 PC의 은행보험용 공동인증서뿐이며 나라장터에서 허용되지 않습니다. 사용자가 KB국민은행 기업금융인증서 1년·4,400원 발급을 승인했습니다. 실제 발급과 사용자 본인확인을 기다립니다. 특정 공고 응찰은 현재 실행 범위에서 제외합니다. **실제 회사 등록은 아직 완료되지 않았습니다.**
 
 현재 관광사업등록증·사업자등록증·등기부와 본점 이전 자료를 확인했습니다. 본점은 강서구이며, 회사 전화는 `02-6091-0977`, 업무 이메일은 `aslan@foresttour.kr`입니다. [현재 확인 시점 사본](evidence/company-current.json)의 정본은 foresttour `docs/회사서류/현재-회사정보.json`입니다. 등기부의 동·건물명은 다른 두 등록증과 다르고, 사용자는 아직 정정하지 않았다고 확인했습니다.
 
@@ -26,7 +26,7 @@
 | NARA-03 입력안·서식 준비 | COMPLETE | 알려진 정보와 미확정값을 구분한 작성안·엑셀·인쇄본 작성 및 산출물 검증 |
 | NARA-04 실제 공고 적합성 분석 | COMPLETE | 서울고 R26BK01770779-000의 공식 상세·공고 PDF·과업 HWP 확인. 응찰 가능 확정 아님 |
 | NARA-05 기본 증빙 확인 | COMPLETE | 현재 사업자등록증 DOC-14·관광사업등록증 DOC-07·등기부 DOC-10·이전 결정서 DOC-12 확인. 전체 17개 비공개 백업과 SHA-256 대조 |
-| NARA-06 나라장터 실제 신규 신청 | PARTIAL | 개인회원 가입·로그인, 대표자 실명확인, 신청서 임시저장과 재조회 검증 완료. 실제 보유 인증서는 은행보험용뿐임. KB국민은행 기업금융인증서 1년 4,400원 비용 승인 대기. 발급 동의·결제·실제 송신 완료·접수번호·승인·등록증은 아직 없음 |
+| NARA-06 나라장터 실제 신규 신청 | PARTIAL | 개인회원 가입·로그인, 대표자 실명확인, 신청서 임시저장과 재조회 검증 완료. KB 기업금융인증서 1년·4,400원 비용 승인 완료. 약관동의 예를 눌렀으나 화면 미전환. 사용자 직접 진행·은행 본인확인 대기. 실제 결제·발급·송신 완료·접수번호·승인·등록증은 미확인 |
 | NARA-07 폴더 자료 저장소 반영 | PARTIAL | 안전한 회사정보·전체 식별 목록·참고 빈서식만 Git 반영. 개인정보·사적 대화·인감이 담긴 원본은 원격 업로드 제외 |
 
 ## 판단 기준

diff --git a/procurement/VERIFICATION.md b/procurement/VERIFICATION.md
@@ -4,6 +4,8 @@
 
 ## 버전 3 실제 신청 진행
 
+최신 비용 승인: 사용자가 KB국민은행 기업금융인증서 1년·부가세 포함 4,400원 발급에 동의했습니다. 동일 비용과 기간을 다시 승인받지 않습니다. 기존 발급 탭에서 1년 상품 선택을 확인하고 필수 약관 보기와 약관동의 예 버튼을 조작했습니다. 전체·개별 약관 보기는 발급 첫 화면을 표시하는 별도 창으로 열렸고 원래 약관 원문은 확인하지 못했습니다. 예 버튼을 누른 뒤에도 실제 다음 단계로 이동한 화면은 확인되지 않았습니다. 원인을 확정하거나 동의·결제·발급 성공으로 기록하지 않았습니다. 점검용으로 연 두 개의 중복 창만 닫아 원래 발급 탭과 나라장터 탭을 보존했고 사용자 직접 진행과 은행 본인확인을 요청했습니다. 비밀번호·OTP·인증번호는 수집하거나 입력하지 않았습니다. 실제 수수료 출금·인증서 발급·회사 신청 송신은 미확인입니다. 아래 비용 승인 대기는 과거 이력입니다.
+
 최신 사용자 확인: 현재 PC의 은행보험용 인증서만 보유합니다. 기존 Aside의 KB국민은행 기업금융인증서 발급 탭을 확인해 발급대상 선택·약관동의 화면에서 1년 4,400원, 2년 8,800원, 3년 13,200원(부가세 포함)을 확인했습니다. 조달청의 사업자용 금융인증서 허용 안내와 대조했습니다. 1년 상품의 신규 발급 비용 승인을 질문한 상태이며 화면의 기본 선택을 승인으로 해석하지 않았습니다. 발급 동의·결제·OTP·비밀번호 입력은 실행하지 않았습니다. 승인 뒤 선택 기간으로 진행하고 계좌 비밀번호·OTP·문자인증 단계는 사용자에게 맡깁니다.
 
 최신 인증서 점검: 사용자가 로컬 인증서를 불러올 수 없다고 답해 공개 인증서의 회사명 일치·기간·용도 코드와 MagicLine 설치·실행·드라이브 인식 상태를 조사했습니다. 표준 폴더에는 사업자 은행보험용 코드 `1.2.410.200005.1.1.2` 한 개가 있었고, 실제 나라장터 공식 스크립트의 법인 허용 목록 50개에서 이 코드는 제외되어 있습니다. MagicLine 설치·요구 버전은 모두 1.0.0.33이며 C드라이브 인식도 확인했습니다. 앞선 업데이트 대기 기록보다 이 점검이 우선합니다. 비밀키 내용·비밀번호는 읽지 않았고 허용 목록이나 보안 설정도 변경하지 않았습니다. 별도 범용 공동인증서 또는 사업자용 금융인증서의 보유 여부·위치를 확인한 뒤 재개합니다. 상세 근거는 [인증서 점검](04-certificate-diagnosis.md)에 있습니다.
